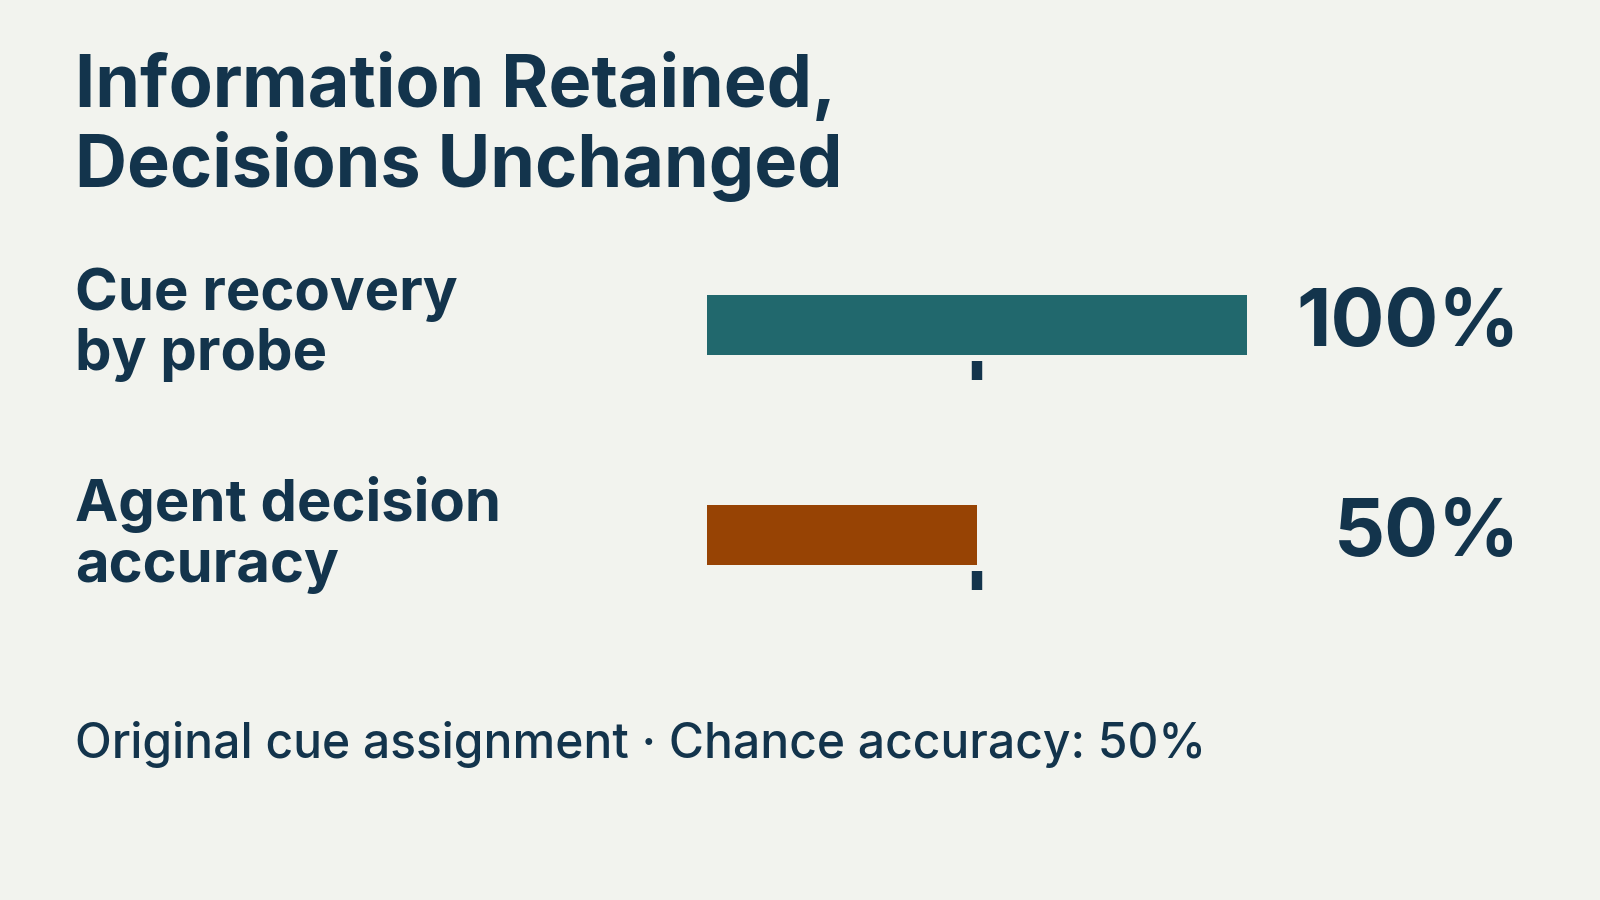
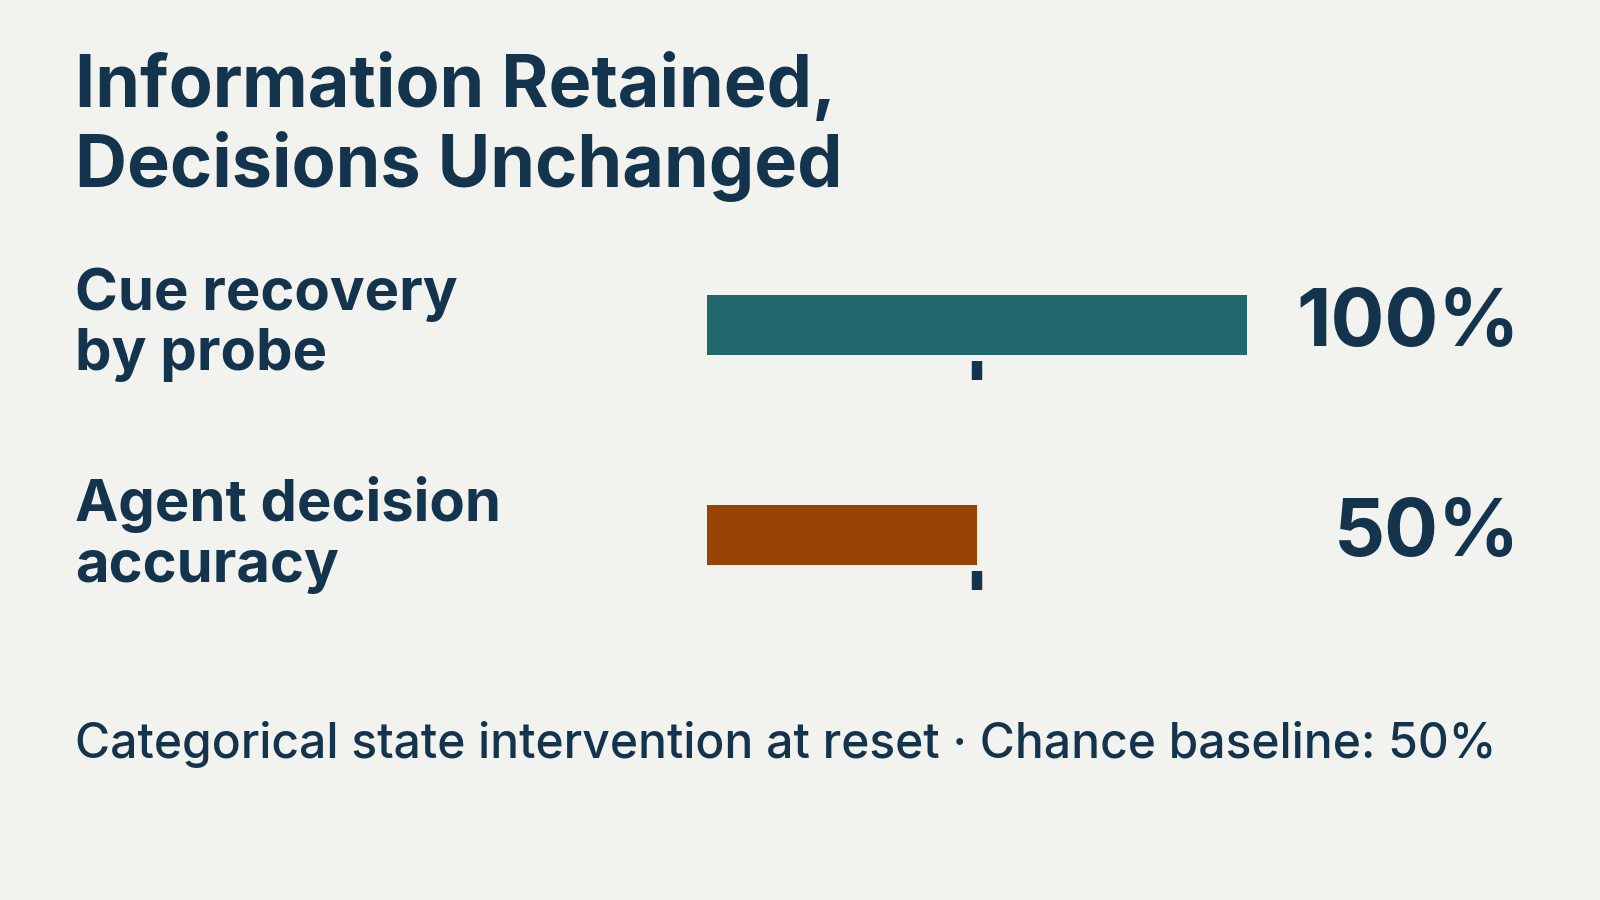
Clarify LinkedIn intervention figure footer

Changed region(s): [[0.0625, 0.7778, 0.9375, 0.8711]]

diff --git a/docs/publication_figures/linkedin_layouts.py b/docs/publication_figures/linkedin_layouts.py
@@ -304,7 +304,7 @@ def intervention():
         ("Cue recovery\nby probe", mean(x["junction_h_accuracy"] for x in factual), "dark_teal"),
         ("Agent decision\naccuracy", mean(x["decision_accuracy"] for x in factual), "dark_orange"),
     ], [325, 535])
-    g.text(75, 744, "Original cue assignment · Chance accuracy: 50%")
+    g.text(75, 744, "Categorical state intervention at reset · Chance baseline: 50%")
     return g.fig
 
 
